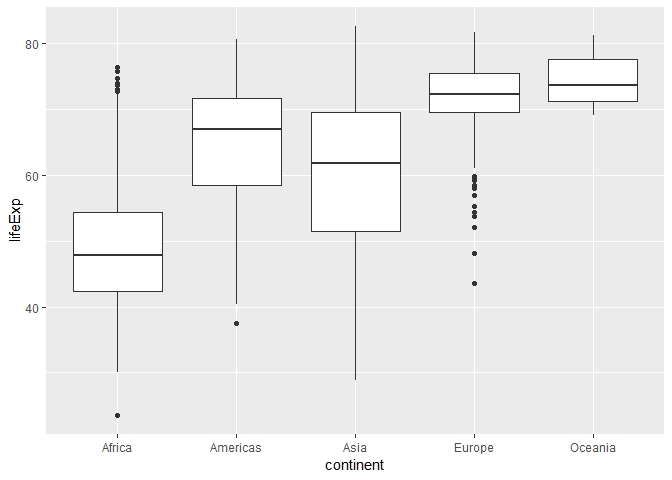
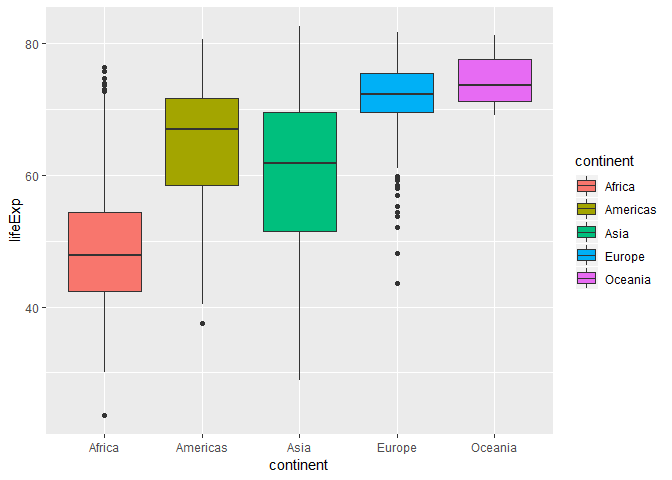
add explanations

diff --git a/gapminder_exploration.md b/gapminder_exploration.md
@@ -192,6 +192,7 @@ Explore various plot types
 --------------------------
 
 This is the scatterplot of pop vs gdpPercap, transparentcy of 0.25 is applied to give a better view of the data.
+================================================================================================================
 
 ``` r
 ggplot(gapminder,aes(pop,gdpPercap))+
@@ -201,13 +202,14 @@ ggplot(gapminder,aes(pop,gdpPercap))+
 ![](gapminder_exploration_files/figure-markdown_github/unnamed-chunk-10-1.png)
 
 This is a histogram of pop and the bin is set to be 50.
+=======================================================
 
 ``` r
 ggplot(gapminder,aes(pop))+
   geom_histogram(bins=50)
 ```
 
-![](gapminder_exploration_files/figure-markdown_github/unnamed-chunk-11-1.png) This is a combination of kernel density plot and histogram of pop and the bin is set to be 50.
+![](gapminder_exploration_files/figure-markdown_github/unnamed-chunk-11-1.png) \#This is a combination of kernel density plot and histogram of pop and the bin is set to be 50.
 
 ``` r
 ggplot(gapminder,aes(pop))+
@@ -217,37 +219,54 @@ ggplot(gapminder,aes(pop))+
 
     ## `stat_bin()` using `bins = 30`. Pick better value with `binwidth`.
 
-![](gapminder_exploration_files/figure-markdown_github/unnamed-chunk-12-1.png) This is a boxplot of lifeExp for each continent.
+![](gapminder_exploration_files/figure-markdown_github/unnamed-chunk-12-1.png) \#This is a boxplot of lifeExp for each continent.
 
 ``` r
+## fill is used to give different continent a different color filling 
 ggplot(gapminder,aes(continent,lifeExp))+
-  geom_boxplot()
+  geom_boxplot(aes(fill=continent))
 ```
 
 ![](gapminder_exploration_files/figure-markdown_github/unnamed-chunk-13-1.png)
 
 This is the violin plot of lifeExp for each continent
+=====================================================
 
 ``` r
 ggplot(gapminder,aes(continent,lifeExp))+
-  geom_violin()
+  geom_violin(aes(fill=continent))
 ```
 
 ![](gapminder_exploration_files/figure-markdown_github/unnamed-chunk-14-1.png)
 
+separate plotting of pop for each continent
+===========================================
+
+Since different continent has various population, the scales free\_x is used to better present the data in the graph.
+
+``` r
+ggplot(gapminder,aes(pop))+
+  facet_wrap(~ continent, scales="free_x")+
+  geom_histogram(aes(fill=continent))
+```
+
+    ## `stat_bin()` using `bins = 30`. Pick better value with `binwidth`.
+
+![](gapminder_exploration_files/figure-markdown_github/unnamed-chunk-15-1.png)
+
 Using filter(), select() and %&gt;%
 -----------------------------------
 
-filter the data to continent Oceania only and the various plots are shown below:
+filter the data to continent Americas only and the various plots are shown below: the color function is applied to the plot to indicate the different trends for various separate countries in Americas.
 
 ``` r
 gapminder %>% 
-  filter(continent=="Oceania") %>% 
+  filter(continent=="Americas") %>% 
   ggplot(aes(year, pop))+
- geom_point()
+ geom_point(aes(color=country))
 ```
 
-![](gapminder_exploration_files/figure-markdown_github/unnamed-chunk-15-1.png)
+![](gapminder_exploration_files/figure-markdown_github/unnamed-chunk-16-1.png)
 
 select only variables lifeExp and continent and plot the boxplot and jitter plot of lifeExp for each continent.
 
@@ -255,11 +274,11 @@ select only variables lifeExp and continent and plot the boxplot and jitter plot
 gapminder %>% 
  select(lifeExp,continent) %>% 
   ggplot(aes(continent,lifeExp))+
-  geom_boxplot(alpha=0.25)+
+  geom_boxplot(alpha=0.25, aes(fill=continent))+
   geom_jitter()
 ```
 
-![](gapminder_exploration_files/figure-markdown_github/unnamed-chunk-16-1.png)
+![](gapminder_exploration_files/figure-markdown_github/unnamed-chunk-17-1.png)
 
 Extra Work
 ----------
